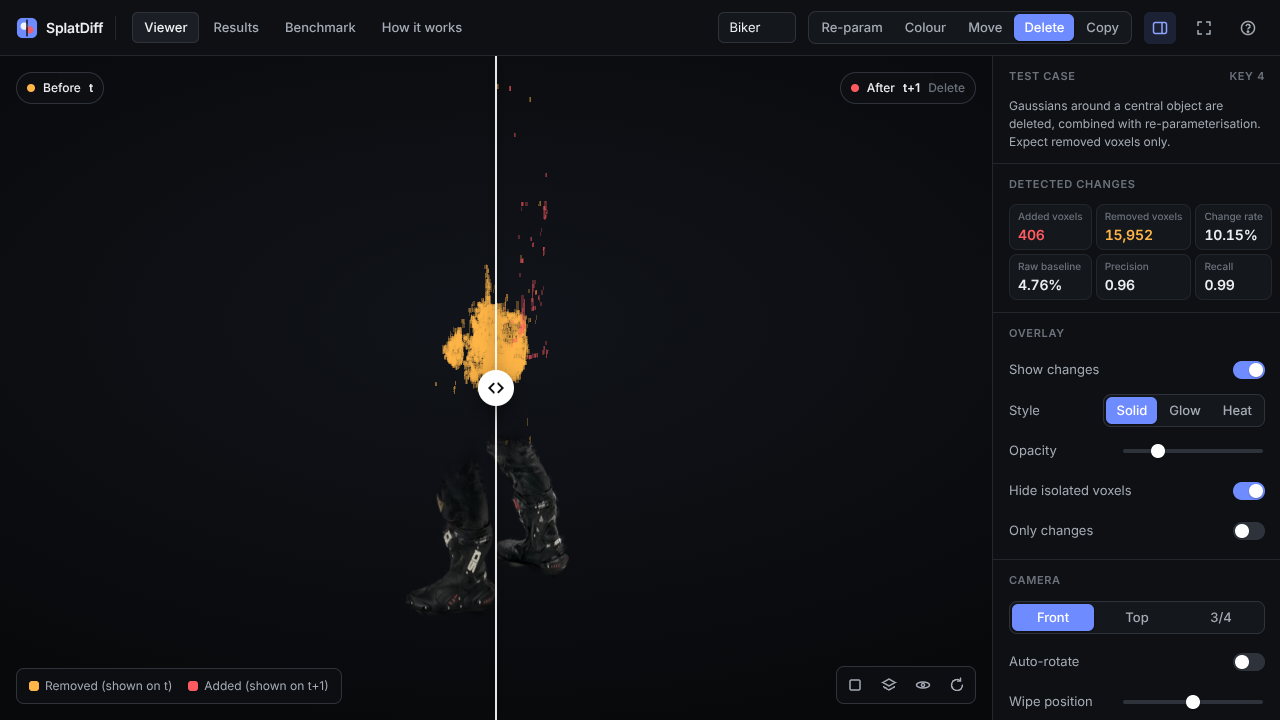
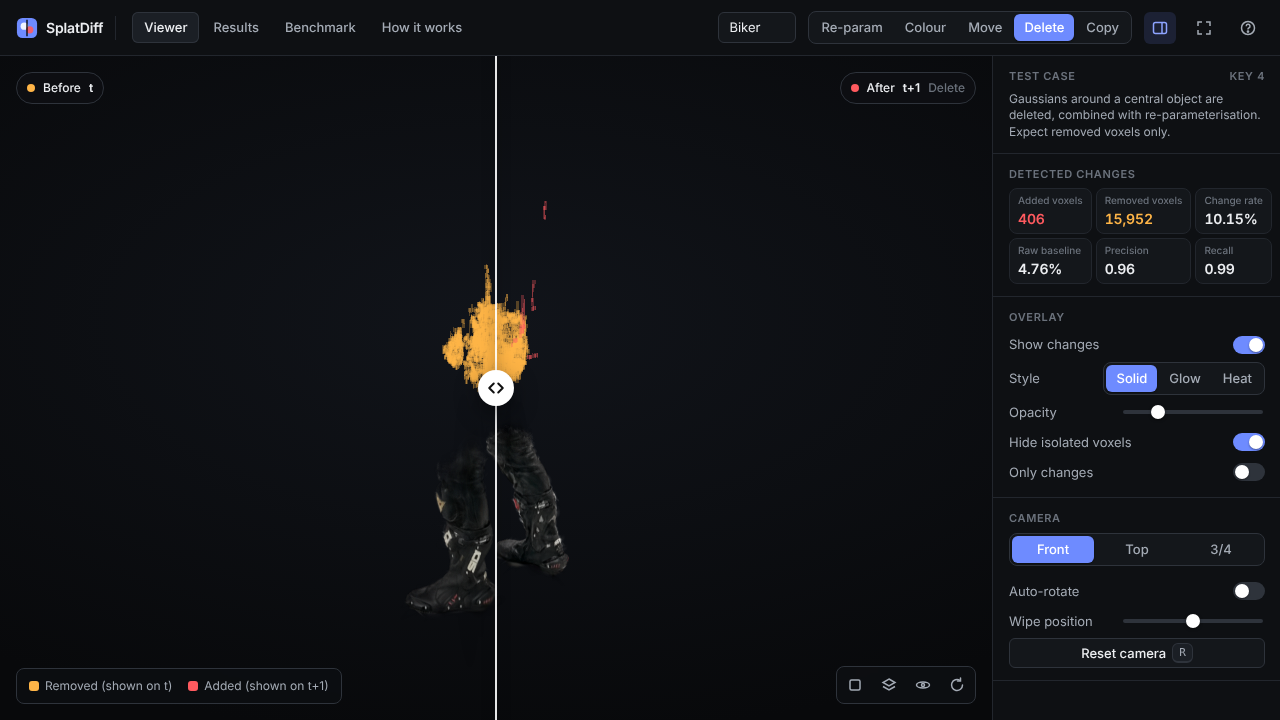
Launcher tested from fresh clone, UI checks closed, 720p sidebar fit, cluster filter, report figures
Claude-Session: https://claude.ai/code/session_01URw7tBqBHAGHVGNNhzNPcW

Changed region(s): [[0.7812, 0.1222, 1.0, 0.9778], [0.7812, 0.9167, 0.8438, 0.9778]]

diff --git a/web/js/app.js b/web/js/app.js
@@ -64,13 +64,27 @@ function surfaceVoxels(voxels) {
   return voxels.filter(([i, j, k]) => nb.some(([a, b, c]) => !set.has(key(i + a, j + b, k + c))));
 }
 // Display-only filter: drops voxels with no 26-neighbour. Reported counts and metrics are not affected.
+// Display filter: drop 26-connected clusters smaller than MIN_CLUSTER voxels (speckle noise).
+// Counts and metrics in the sidebar are unchanged.
+const MIN_CLUSTER = 8;
 function dropIsolated(voxels) {
   const key = (i, j, k) => (i * 1024 + j) * 1024 + k;
-  const set = new Set(voxels.map((v) => key(v[0], v[1], v[2])));
-  return voxels.filter(([i, j, k]) => {
-    for (let a = -1; a <= 1; a++) for (let b = -1; b <= 1; b++) for (let c = -1; c <= 1; c++) if ((a || b || c) && set.has(key(i + a, j + b, k + c))) return true;
-    return false;
-  });
+  const idx = new Map(voxels.map((v, n) => [key(v[0], v[1], v[2]), n]));
+  const comp = new Int32Array(voxels.length).fill(-1);
+  const keep = new Uint8Array(voxels.length);
+  for (let s = 0; s < voxels.length; s++) {
+    if (comp[s] >= 0) continue;
+    const members = [s]; comp[s] = s;
+    for (let q = 0; q < members.length; q++) {
+      const [i, j, k] = voxels[members[q]];
+      for (let a = -1; a <= 1; a++) for (let b = -1; b <= 1; b++) for (let c = -1; c <= 1; c++) {
+        const n = idx.get(key(i + a, j + b, k + c));
+        if (n !== undefined && comp[n] < 0) { comp[n] = s; members.push(n); }
+      }
+    }
+    if (members.length >= MIN_CLUSTER) members.forEach((n) => { keep[n] = 1; });
+  }
+  return voxels.filter((v, n) => keep[n]);
 }
 function makeBoxes(voxels, g, color) {
   voxels = surfaceVoxels(state.clean ? dropIsolated(voxels) : voxels);

diff --git a/web/index.html b/web/index.html
@@ -98,7 +98,7 @@
               <button data-style="solid" aria-pressed="true">Solid</button><button data-style="glow" aria-pressed="false">Glow</button><button data-style="heat" aria-pressed="false">Heat</button>
             </div></div>
           <div class="row"><span>Opacity</span><input type="range" id="ovOpacity" min="0.1" max="1" step="0.05" value="0.3" aria-label="Overlay opacity"></div>
-          <div class="row"><span>Hide isolated voxels</span><label class="switch" data-tip="Display only, counts unchanged" data-tip-pos="left"><input type="checkbox" id="hideIsolated" checked aria-label="Hide isolated voxels"><i></i></label></div>
+          <div class="row"><span>Hide isolated voxels</span><label class="switch" data-tip="Hide clusters under 8 voxels (display only)" data-tip-pos="left"><input type="checkbox" id="hideIsolated" checked aria-label="Hide isolated voxels"><i></i></label></div>
           <div class="row"><span>Only changes</span><label class="switch" data-tip="Hide the splats" data-tip-pos="left"><input type="checkbox" id="onlyChanges" aria-label="Only changes"><i></i></label></div>
         </div>
         <div class="section">

diff --git a/web/css/app.css b/web/css/app.css
@@ -289,4 +289,9 @@ input[type="range"]::-moz-range-thumb { width: 14px; height: 14px; border: 0; bo
   .sidebar .stat { padding: var(--s-1) var(--s0); }
   .sidebar .stat .k { font-size: 10px; white-space: nowrap; overflow: hidden; text-overflow: ellipsis; }
   .sidebar .stat .v { font-size: 14px; }
+  .sidebar .row { min-height: 26px; }
+  .sidebar .row + .row { margin-top: 4px; }
+  .sidebar .section h3 { margin-bottom: 6px; }
+  .sidebar .case-desc { line-height: 1.4; margin: 0; }
+  .sidebar .btn { height: 30px; }
 }

diff --git a/python/figures.py b/python/figures.py
@@ -1,0 +1,168 @@
+"""Report and slide figures from results/*.json.
+
+Usage: python3 python/figures.py [outdir]   (default results/figures)
+Writes PNG charts at 200 dpi with a light theme (prints well in the report).
+"""
+import json
+import os
+import sys
+
+import matplotlib
+matplotlib.use("Agg")
+import matplotlib.pyplot as plt  # noqa: E402
+
+ROOT = os.path.dirname(os.path.dirname(os.path.abspath(__file__)))
+OUT = sys.argv[1] if len(sys.argv) > 1 else os.path.join(ROOT, "results", "figures")
+
+ACCENT = "#5b6cff"   # SplatDiff
+GREY = "#9aa1ad"     # raw baseline
+CUDA = "#76b900"
+OMP = "#f2a33a"
+CASE_NAME = {"reparam": "Re-param", "color": "Colour", "move": "Move", "delete": "Delete", "copy": "Copy"}
+CASES = ["reparam", "color", "move", "delete", "copy"]
+EDITS = ["move", "delete", "copy"]
+
+plt.rcParams.update({
+    "font.family": "DejaVu Sans", "font.size": 10, "axes.spines.top": False,
+    "axes.spines.right": False, "axes.edgecolor": "#888", "axes.titleweight": "bold",
+    "axes.titlesize": 11, "legend.frameon": False, "savefig.dpi": 200,
+    "savefig.bbox": "tight", "axes.grid": True, "grid.color": "#e5e7eb", "axes.axisbelow": True,
+})
+
+
+def load(name):
+    with open(os.path.join(ROOT, "results", name)) as f:
+        return json.load(f)
+
+
+def label_bars(ax, bars, fmt):
+    for b in bars:
+        h = b.get_height()
+        ax.annotate(fmt(h), (b.get_x() + b.get_width() / 2, h), xytext=(0, 2),
+                    textcoords="offset points", ha="center", va="bottom", fontsize=7)
+
+
+def bottom_legend(fig, ax, ncol=2):
+    h, lab = ax.get_legend_handles_labels()
+    fig.legend(h, lab, loc="lower center", ncol=ncol, bbox_to_anchor=(0.5, -0.1))
+
+
+def grouped(ax, groups, series, colors, names, fmt, width=0.38):
+    xs = range(len(groups))
+    for i, (vals, c, n) in enumerate(zip(series, colors, names)):
+        off = (i - (len(series) - 1) / 2) * width
+        bars = ax.bar([x + off for x in xs], vals, width, color=c, label=n)
+        label_bars(ax, bars, fmt)
+    ax.set_xticks(list(xs))
+    ax.set_xticklabels(groups)
+
+
+def fig_change_rate(summary):
+    fig, axes = plt.subplots(1, len(summary), figsize=(10, 3.4), sharey=True)
+    for ax, (scene, res) in zip(axes, summary.items()):
+        sd = [100 * res[c]["change_rate"] for c in CASES]
+        raw = [100 * res[c]["raw_change_rate"] for c in CASES]
+        grouped(ax, [CASE_NAME[c] for c in CASES], [sd, raw], [ACCENT, GREY],
+                ["SplatDiff", "Raw baseline"], lambda v: f"{v:.1f}")
+        ax.set_title(scene.capitalize())
+    axes[0].set_ylabel("Voxels flagged as changed (%)")
+    bottom_legend(fig, axes[0])
+    fig.suptitle("Change rate per test case (re-param and colour should be near 0)", fontsize=11, y=1.04)
+    return fig
+
+
+def fig_precision_recall(summary):
+    fig, axes = plt.subplots(1, 2, figsize=(10, 3.4), sharey=True)
+    groups = [f"{s}\n{CASE_NAME[c]}" for s in summary for c in EDITS]
+    for ax, key in zip(axes, ["precision", "recall"]):
+        sd = [summary[s][c][key] for s in summary for c in EDITS]
+        raw = [summary[s][c]["raw_" + key] for s in summary for c in EDITS]
+        grouped(ax, groups, [sd, raw], [ACCENT, GREY], ["SplatDiff", "Raw baseline"],
+                lambda v: f"{v:.2f}")
+        ax.set_title(key.capitalize())
+        ax.set_ylim(0, 1.12)
+    bottom_legend(fig, axes[0])
+    fig.suptitle("Edit cases against ground truth (128^3 grid)", fontsize=11, y=1.04)
+    return fig
+
+
+def fig_benchmark(bench):
+    runs = bench["runs"]
+    ns = sorted({r["n"] for r in runs})
+
+    def pick(impl, n, threads=None):
+        for r in runs:
+            if r["impl"] == impl and r["n"] == n and (threads is None or r.get("threads") == threads):
+                return r
+        return None
+
+    impls = [("serial", 1, "Serial C", GREY), ("openmp", 2, "OpenMP (2 vCPU)", OMP),
+             ("cuda", None, "CUDA (T4)", CUDA)]
+    fig, (a1, a2) = plt.subplots(1, 2, figsize=(10, 3.4))
+    groups = [f"{n}^3" for n in ns]
+    times, speed, names, cols = [], [], [], []
+    for impl, th, name, col in impls:
+        rs = [pick(impl, n, th) for n in ns]
+        if any(r is None for r in rs):
+            continue
+        times.append([1000 * r["total"] for r in rs])
+        speed.append([r["speedup"] for r in rs])
+        names.append(name)
+        cols.append(col)
+    w = 0.8 / len(times)
+    grouped(a1, groups, times, cols, names, lambda v: f"{v:.0f}" if v >= 10 else f"{v:.1f}", w)
+    a1.set_yscale("log")
+    a1.set_ylabel("Total kernel time (ms, log)")
+    a1.set_title("Time per grid size")
+    bottom_legend(fig, a1, 3)
+    grouped(a2, groups, speed, cols, names, lambda v: f"{v:.1f}x", w)
+    a2.set_ylabel("Speedup over serial")
+    a2.set_title("Speedup")
+    fig.suptitle(f"{bench['scene']} / {bench['case']}: splat + compare + reduce "
+                 "(CUDA excludes host-to-device copy)", fontsize=11, y=1.04)
+    return fig
+
+
+def fig_breakdown(bench):
+    n = max(r["n"] for r in bench["runs"])
+    rows = [("Serial", "serial", 1), ("OpenMP x2", "openmp", 2), ("CUDA", "cuda", None)]
+    fig, ax = plt.subplots(figsize=(6, 3))
+    labels, parts = [], {"t_splat": [], "t_compare": [], "t_reduce": []}
+    for name, impl, th in rows:
+        r = next((r for r in bench["runs"] if r["impl"] == impl and r["n"] == n
+                  and (th is None or r.get("threads") == th)), None)
+        if r is None:
+            continue
+        labels.append(name)
+        tot = r["t_splat"] + r["t_compare"] + r["t_reduce"]
+        for k in parts:
+            parts[k].append(100 * r[k] / tot)
+    left = [0] * len(labels)
+    for k, c, nm in [("t_splat", ACCENT, "K1 splat"), ("t_compare", OMP, "K2 compare"),
+                     ("t_reduce", "#e5484d", "K3 reduce")]:
+        ax.barh(labels, parts[k], left=left, color=c, label=nm)
+        left = [a + b for a, b in zip(left, parts[k])]
+    ax.set_xlabel("Share of kernel time (%)")
+    ax.set_xlim(0, 100)
+    ax.invert_yaxis()
+    ax.legend(loc="lower center", bbox_to_anchor=(0.5, 1.0), ncol=3)
+    ax.set_title(f"Kernel breakdown at {n}^3", pad=24)
+    return fig
+
+
+def main():
+    os.makedirs(OUT, exist_ok=True)
+    summary = load("summary.json")
+    bench = load("benchmark.json")
+    figs = {"change_rate.png": fig_change_rate(summary),
+            "precision_recall.png": fig_precision_recall(summary),
+            "benchmark_speedup.png": fig_benchmark(bench),
+            "kernel_breakdown.png": fig_breakdown(bench)}
+    for name, fig in figs.items():
+        fig.savefig(os.path.join(OUT, name))
+        plt.close(fig)
+        print("wrote", os.path.join(OUT, name))
+
+
+if __name__ == "__main__":
+    main()

diff --git a/PROGRESS.md b/PROGRESS.md
@@ -4,7 +4,10 @@ STATUS: IN PROGRESS
 
 ## Next task
 
-Finish task 9: start.sh and start.bat are written but have never been run (see the 2026-11-05 log entry). Test them from a fresh clone, then check the unverified UI items in the 2026-11-04 log entry. Task 8 stays open until those pass.
+Task 10 is mostly done (four figures in results/figures/). Next run: optionally add a pipeline
+diagram PNG for the report (export the How it works SVG), then start task 11 (final QA pass from a
+fresh clone: start.sh, test_kernels.py, figures.py, screenshots of every page at 1920x1080 and
+1280x720). start.bat still needs one test on a Windows laptop (Aanand or Aakarsh).
 
 ## Task checklist
 
@@ -15,9 +18,9 @@ Finish task 9: start.sh and start.bat are written but have never been run (see t
 - [x] 5. CUDA kernels, NVRTC check, notebooks/colab_benchmark.ipynb (Colab run pending, see below)
 - [x] 6. Export change voxels and scenes for the viewer
 - [x] 7. Web viewer basics
-- [~] 8. UI polish (presentation quality, at least two runs): run 1 done 2026-10-31, run 2 done 2026-11-01, run 3 done 2026-11-04 (a few checks still open)
-- [~] 9. One-click launcher (start.sh / start.bat) and README instructions: written 2026-11-05, not yet run
-- [ ] 10. Results figures for report and slides
+- [x] 8. UI polish (presentation quality): runs on 2026-10-31, 11-01, 11-04, open checks closed 2026-11-08
+- [x] 9. One-click launcher and README: start.sh passes from a fresh clone (2026-11-08); start.bat untested (no Windows here)
+- [~] 10. Results figures for report and slides: python/figures.py, 4 PNGs (2026-11-08)
 - [ ] 11. Final QA pass, set STATUS: COMPLETE
 
 ## How to rebuild everything (generated files are gitignored)
@@ -31,10 +34,39 @@ python3 python/test_kernels.py guitar move 48
 python3 python/pipeline.py         # results/<scene>.json, results/summary.json
 python3 python/export_web.py       # web/data/*
 cd web && python3 -m http.server 8765
+python3 python/figures.py          # results/figures/*.png
 node scripts/screenshot.mjs out.png 1920 1080 "?scene=biker&case=move" [results|benchmark|how|help|present]
 ```
 
 ## Log
+
+### 2026-11-08 (run 6, launcher test, UI checks, figures)
+
+Push was denied again (403 from the git proxy: AakarshP26/SplatDIff is not in this scheduled task's
+authorised sources). Work is committed locally and delivered as splatdiff_2026-11-08.bundle.
+
+Done:
+- Ran `bash start.sh` from a fresh clone: all six build steps passed in about 100 s, server answered
+  on 127.0.0.1:8765, data/manifest.json served. Rebuilt metrics identical to the committed
+  results (only timings differ, committed timings kept). xdg-open is absent here, so the browser
+  open step was a no-op as designed.
+- Closed the open UI checks from 2026-11-04 with headless screenshots: heat style (guitar copy,
+  1920), only-changes (biker move, 1280x720), copy case, presentation layout (sidebar hidden). All OK.
+- Sidebar at 1280x720 overflowed by about 100 px with the longer move description: tighter rows,
+  headings and button in the max-height 800px block. Whole sidebar now fits.
+- "Hide isolated voxels" now drops 26-connected clusters under 8 voxels (was: single voxels with no
+  neighbour). Removes the speckle streaks above the biker in move/delete. Display only.
+- Task 10: python/figures.py writes results/figures/change_rate.png, precision_recall.png,
+  benchmark_speedup.png, kernel_breakdown.png (light theme, 200 dpi) plus a README with key numbers.
+- Screenshots refreshed: ui_viewer_guitar_move_1920, ui_viewer_guitar_copy_heat_1920,
+  ui_viewer_biker_move_1280, ui_viewer_biker_delete_1280, ui_present_biker_delete_1280.
+
+Tests: start.sh fresh-clone build PASS; 5 screenshots, no console errors printed; figures.py PASS.
+
+Action for Aanand:
+1. Push the bundle: inside a clone, `git pull /path/to/splatdiff_2026-11-08.bundle main && git push origin main`.
+2. Add AakarshP26/SplatDIff to this scheduled task's GitHub sources so runs can push directly.
+3. Double-click start.bat once on a Windows laptop and report whether it works.
 
 ### 2026-11-05 (run 5, launcher)
 

diff --git a/results/figures/README.md b/results/figures/README.md
@@ -1,0 +1,14 @@
+# Figures for the report and slides
+
+Generated by `python3 python/figures.py` from results/summary.json and results/benchmark.json.
+
+| File | Shows |
+|------|-------|
+| change_rate.png | Fraction of voxels flagged as changed per test case, SplatDiff vs raw point-histogram baseline, both scenes (128^3). Re-param: 0.8% / 0.4% vs 2.3% / 2.8%. Colour: 0% for both. |
+| precision_recall.png | Precision and recall against ground truth for move, delete, copy. SplatDiff precision 0.85 to 0.98, recall 0.99 to 1.00; raw baseline precision 0.16 to 0.57. |
+| benchmark_speedup.png | Kernel time (log axis) and speedup for serial C, OpenMP (2 vCPU sandbox) and CUDA (Colab Tesla T4) at 64^3, 128^3, 256^3, biker move. CUDA reaches 108.9x at 256^3 (kernel time, excludes host-to-device copy). |
+| kernel_breakdown.png | Share of time in K1 splat, K2 compare, K3 reduce at 256^3. Splatting dominates (82 to 93%). |
+
+UI screenshots for slides are in ../screenshots/.
+Note: biker move/delete flag more voxels than the raw baseline because the raw baseline misses most of
+the edit (recall 0.31 to 0.39); compare with precision_recall.png, not change rate alone.

diff --git a/README.md b/README.md
@@ -44,6 +44,8 @@ regenerates everything, and `PORT=9000 bash start.sh` selects another port.
 Requirements for the first run: Node 18+, Python 3 with numpy and scipy, gcc, make. On Windows the
 first run uses WSL for these. Once `web/data` exists, only Python is needed.
 
+Tested 2026-11-08 from a fresh clone on Linux: the first run builds everything in about 100 s.
+
 ## Manual steps (Linux / macOS, needs Node 18+, Python 3 with numpy and scipy, gcc)
 
 ```bash
@@ -52,7 +54,11 @@ python3 python/prepare.py          # test cases + binaries
 make -C kernels                    # serial + OpenMP
 python3 python/test_kernels.py     # correctness vs NumPy reference
 python3 python/pipeline.py         # results/*.json
+python3 python/export_web.py       # web/data/*
+python3 python/figures.py          # results/figures/*.png (needs matplotlib)
 ```
+
+Report and slide figures: results/figures/ (see its README) and results/screenshots/.
 
 ## Method
 
